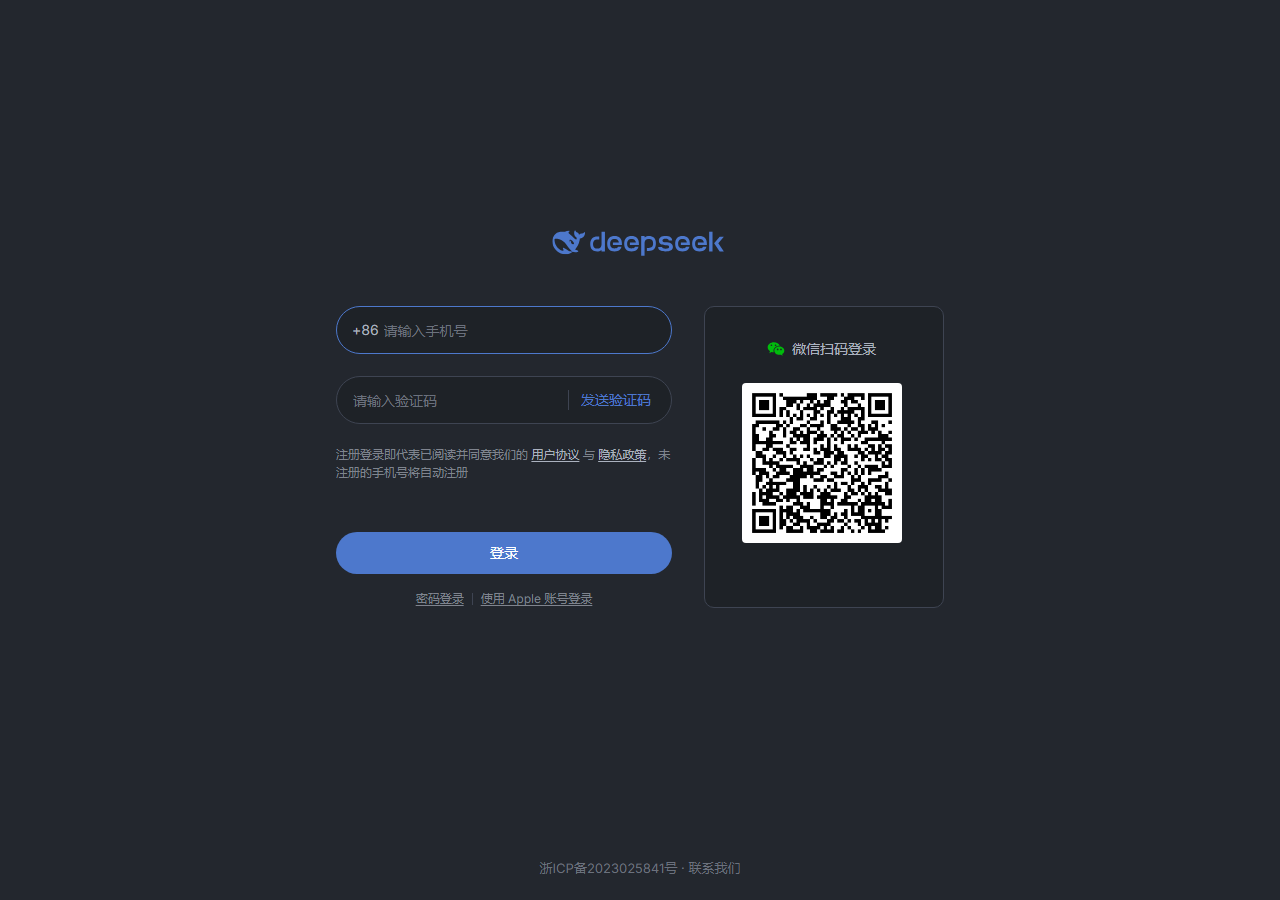
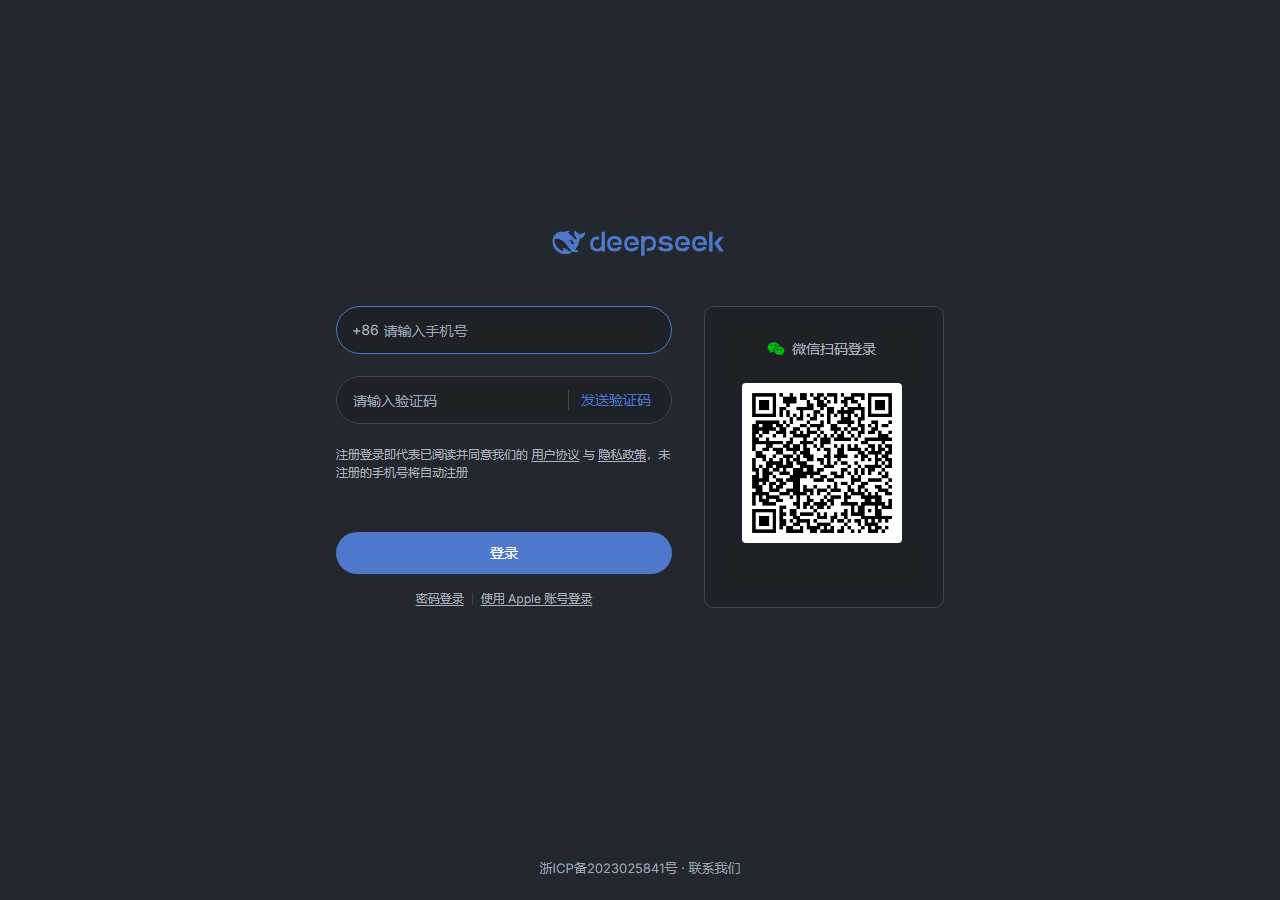
fix(skin): keep ui text on the one dark foreground colour

diff --git a/deepseek-chat/onedark-deepseek.user.js b/deepseek-chat/onedark-deepseek.user.js
@@ -120,9 +120,9 @@ body[data-ds-dark-theme] {
   --dsw-alias-button-contrast-fill: #abb2bf !important;
   --dsw-alias-label-primary: #abb2bf !important;
   --dsw-alias-label-primary-dimmed: #9da5b4 !important;
-  --dsw-alias-label-secondary: #9da5b4 !important;
-  --dsw-alias-label-tertiary: #7f848e !important;
-  --dsw-alias-label-caption: #6b717d !important;
+  --dsw-alias-label-secondary: #abb2bf !important;
+  --dsw-alias-label-tertiary: #abb2bf !important;
+  --dsw-alias-label-caption: #9da5b4 !important;
   --dsw-alias-label-dimmed: #495162 !important;
   --dsw-alias-label-primary-foreground: #ffffff !important;
   --dsw-alias-label-primary-inverted: #23272e !important;
@@ -157,9 +157,9 @@ body[data-ds-dark-theme] {
 }
 
 /* thinking block: a process column under the answer
-   The site already ships the icon, the left rule and the 22px indent; what it lacks is text hierarchy:
-   the answer is 16px/28px on label-primary, thinking is 14px/24px on label-secondary,
-   and after the One Dark mapping those two steps sit too close, so thinking drops to comment grey. */
+   The site already ships the icon, the left rule and the 22px indent, but it colours
+   reasoning with label-secondary, which in this mapping is the body colour, so the block
+   needs its own step down. */
 body[data-ds-dark-theme] .ds-think-content .ds-markdown {
   color: #7f848e;
   line-height: 22px;

diff --git a/deepseek-chat/onedark-deepseek.css b/deepseek-chat/onedark-deepseek.css
@@ -98,9 +98,9 @@ body[data-ds-dark-theme] {
   --dsw-alias-button-contrast-fill: #abb2bf !important;
   --dsw-alias-label-primary: #abb2bf !important;
   --dsw-alias-label-primary-dimmed: #9da5b4 !important;
-  --dsw-alias-label-secondary: #9da5b4 !important;
-  --dsw-alias-label-tertiary: #7f848e !important;
-  --dsw-alias-label-caption: #6b717d !important;
+  --dsw-alias-label-secondary: #abb2bf !important;
+  --dsw-alias-label-tertiary: #abb2bf !important;
+  --dsw-alias-label-caption: #9da5b4 !important;
   --dsw-alias-label-dimmed: #495162 !important;
   --dsw-alias-label-primary-foreground: #ffffff !important;
   --dsw-alias-label-primary-inverted: #23272e !important;
@@ -135,9 +135,9 @@ body[data-ds-dark-theme] {
 }
 
 /* thinking block: a process column under the answer
-   The site already ships the icon, the left rule and the 22px indent; what it lacks is text hierarchy:
-   the answer is 16px/28px on label-primary, thinking is 14px/24px on label-secondary,
-   and after the One Dark mapping those two steps sit too close, so thinking drops to comment grey. */
+   The site already ships the icon, the left rule and the 22px indent, but it colours
+   reasoning with label-secondary, which in this mapping is the body colour, so the block
+   needs its own step down. */
 body[data-ds-dark-theme] .ds-think-content .ds-markdown {
   color: #7f848e;
   line-height: 22px;

diff --git a/deepseek-chat/build/gen.py b/deepseek-chat/build/gen.py
@@ -170,11 +170,15 @@ ALIAS = {
     "--dsw-alias-button-tool-bar-fill-invisible": "rgba(24, 26, 31, .36)",
     "--dsw-alias-button-contrast-fill": FG,
     # Text
+    # One Dark Pro keeps almost every UI text on #abb2bf and drops to #9da5b4
+    # only for status-like copy, so the site's four text levels collapse onto
+    # three: primary, secondary and tertiary all read as body text, while
+    # caption and dimmed carry the muted roles.
     "--dsw-alias-label-primary": FG,
     "--dsw-alias-label-primary-dimmed": FG_MUTED,
-    "--dsw-alias-label-secondary": FG_MUTED,
-    "--dsw-alias-label-tertiary": GRAY,
-    "--dsw-alias-label-caption": FG_DIM,
+    "--dsw-alias-label-secondary": FG,
+    "--dsw-alias-label-tertiary": FG,
+    "--dsw-alias-label-caption": FG_MUTED,
     "--dsw-alias-label-dimmed": FG_FAINT,
     "--dsw-alias-label-primary-foreground": WHITE,
     "--dsw-alias-label-primary-inverted": EDITOR,
@@ -295,9 +299,9 @@ def build_css():
     out.append("")
 
     out.append("/* thinking block: a process column under the answer")
-    out.append("   The site already ships the icon, the left rule and the 22px indent; what it lacks is text hierarchy:")
-    out.append("   the answer is 16px/28px on label-primary, thinking is 14px/24px on label-secondary,")
-    out.append("   and after the One Dark mapping those two steps sit too close, so thinking drops to comment grey. */")
+    out.append("   The site already ships the icon, the left rule and the 22px indent, but it colours")
+    out.append("   reasoning with label-secondary, which in this mapping is the body colour, so the block")
+    out.append("   needs its own step down. */")
     out.append("{} .ds-think-content .ds-markdown {{\n  color: {};\n  line-height: 22px;\n}}".format(SCOPE, GRAY))
     out.append("")
     out.append("{} .ds-think-content .ds-markdown :is(h1, h2, h3, h4, h5, h6) {{\n  color: {};\n}}".format(SCOPE, FG_MUTED))

diff --git a/deepseek-chat/README.md b/deepseek-chat/README.md
@@ -42,14 +42,17 @@ Stylus用户直接导入[onedark-deepseek.css](onedark-deepseek.css)，URL前缀
 | `--dsw-alias-bg-layer-2` | `#323842` | 失焦选中 |
 | `--dsw-alias-border-l2` | `#3e4452` | 强线条 |
 | `--dsw-alias-label-primary` | `#abb2bf` | 正文 |
-| `--dsw-alias-label-tertiary` | `#7f848e` | 注释灰 |
-| `--dsw-alias-label-caption` | `#6b717d` | 灰化 |
+| `--dsw-alias-label-secondary` | `#abb2bf` | 与正文同色 |
+| `--dsw-alias-label-tertiary` | `#abb2bf` | 会话标题、列表项 |
+| `--dsw-alias-label-caption` | `#9da5b4` | 灰化、占位符 |
 | `--dsw-alias-brand-primary` | `#4d78cc` | 强调 |
 | `--dsw-alias-brand-text` | `#61afef` | 链接 |
 | `--dsw-static-red-400` | `#e06c75` | 变量红兼错误 |
 | `--dsw-static-green-500` | `#98c379` | 字符串绿兼成功 |
 | `--dsw-static-amber-500` | `#d19a66` | 数字橙兼警告 |
 | `--dsw-alias-markdown-code-block` | `#1e2227` | 代码块底 |
+
+文字层级按VSCode的实际用法合并。One Dark Pro的界面文字几乎全用`#abb2bf`，只有状态栏这类降到`#9da5b4`；站点有四级文字，所以primary、secondary、tertiary都落到`#abb2bf`，caption用`#9da5b4`，dimmed留给最弱的提示。早先按"越次要越灰"逐级压暗，会话标题落到`#7f848e`，而VSCode里同一位置的资源管理器文件名是`#abb2bf`，对比之下整片发灰。
 
 中性阶`--dsw-static-neutral-bluish-*`从00到1000共19档，主题里只有9个中性值，多档合并到同一个值。合并后仍保持由亮到暗的方向，直接读这组变量的地方不会拿到相反的颜色。
 
@@ -98,7 +101,7 @@ Stylus用户直接导入[onedark-deepseek.css](onedark-deepseek.css)，URL前缀
 
 ## 五、深度思考块
 
-站点的深度思考块自带图标、左侧竖线和22px缩进，结构上是分开的。问题在文字层级：答复取`label-primary`，思考取`label-secondary`，站点原值相差不小，但换成One Dark的映射后两档挨得太近，展开的思考几乎和答复同色。
+站点的深度思考块自带图标、左侧竖线和22px缩进，结构上是分开的。问题在文字层级：答复取`label-primary`，思考取`label-secondary`，站点原值`#f9fafb`与`#cfd3d6`相差明显，但这套映射把两档都落到`#abb2bf`，展开后思考与答复完全同色，只剩字号和缩进的区别。
 
 | 位置 | 站点原值 | 皮肤初版 | 现在 |
 |---|---|---|---|
@@ -112,7 +115,7 @@ Stylus用户直接导入[onedark-deepseek.css](onedark-deepseek.css)，URL前缀
 
 ![思考块改后](images/06-think-after.png)
 
-两张图只差这一组规则：前一张思考与答复接近同色，后一张过程与结论分开。
+两张图只差这一组规则：前一张思考与答复同色，后一张过程与结论分开。
 
 ## 六、已知边界
 
